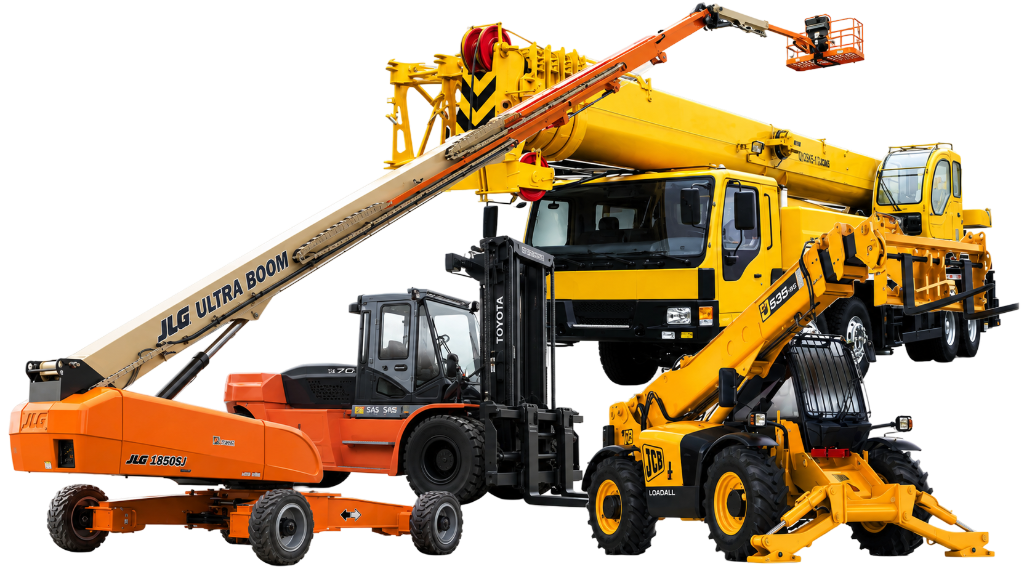
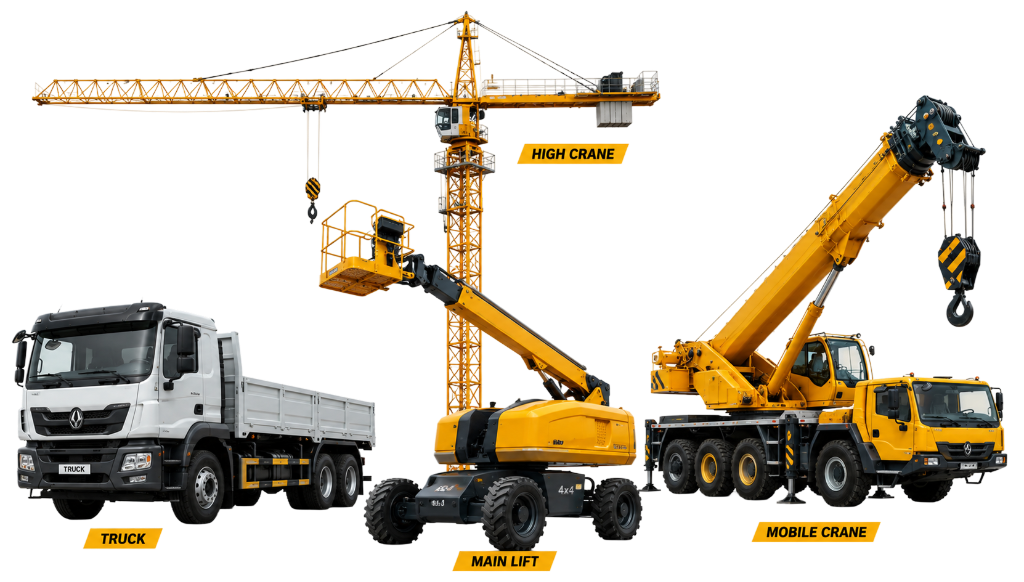
Third commit

diff --git a/src/app/layout.tsx b/src/app/layout.tsx
@@ -17,9 +17,9 @@ const plusJakartaSans = Plus_Jakarta_Sans({
 });
 
 export const metadata: Metadata = {
-  title: "Al Taef Crane Rental | Premium Heavy Machinery & Access Solutions UAE",
+  title: "Al Taef Star Group | Premium Heavy Machinery & Access Solutions UAE",
   description: "Certified equipment rental in the UAE. Mobile cranes (25T to 500T), access platforms, forklifts, and site survey assessments with 24/7 support.",
-  keywords: ["crane rental Dubai", "heavy machinery rental UAE", "mobile crane rental UAE", "access platforms Dubai", "Al Taef crane"],
+  keywords: ["crane rental Dubai", "heavy machinery rental UAE", "mobile crane rental UAE", "access platforms Dubai", "Al Taef Star Group"],
 };
 
 export default function RootLayout({

diff --git a/src/components/Footer.tsx b/src/components/Footer.tsx
@@ -88,7 +88,7 @@ export default function Footer() {
           <p className="text-xs text-text-muted text-center md:text-left">
             Copyright © {new Date().getFullYear()}.{" "}
             <span className="text-white font-medium">
-              Al Taef Construction Equipment L.L.C.
+              Al Taef Star Group
             </span>{" "}
             All rights reserved.
           </p>